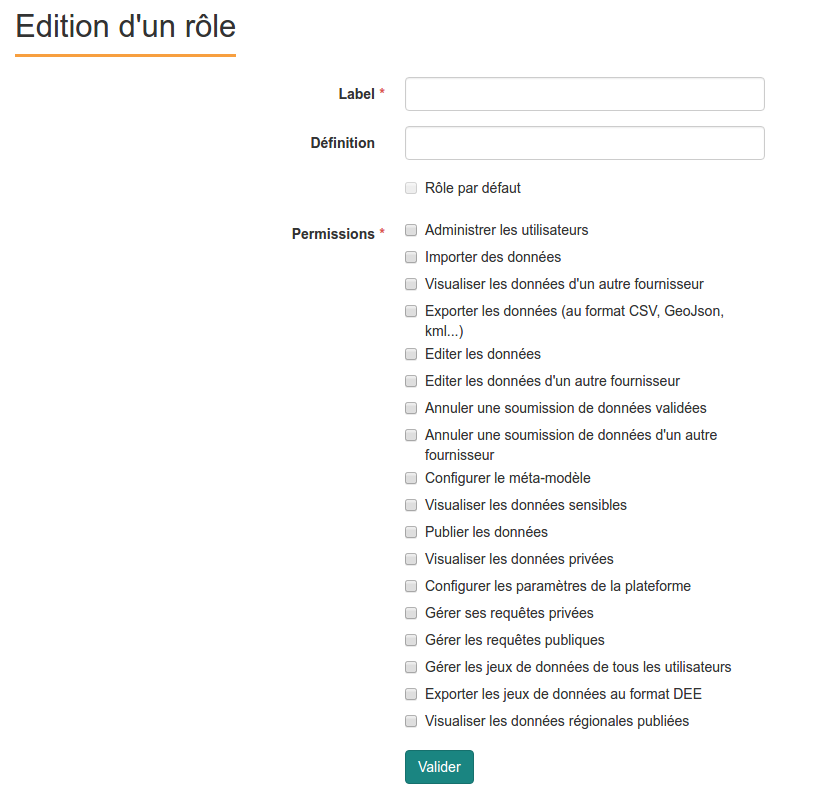
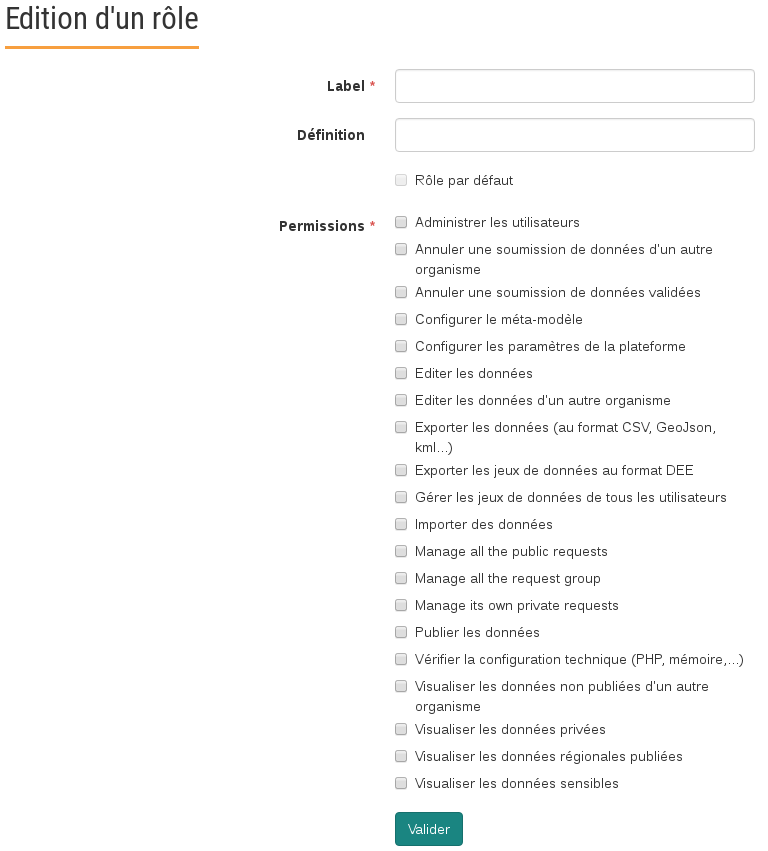
#1386: Update visu permissions documentation

diff --git a/website/server/src/Ign/Bundle/GincoBundle/Controller/QueryController.php b/website/server/src/Ign/Bundle/GincoBundle/Controller/QueryController.php
@@ -177,8 +177,7 @@ class QueryController extends BaseController {
 			// Call the service to get the definition of the columns
 			$userInfos = [
 				"providerId" => $this->getUser() ? $this->getUser()
-					->getProvider()
-					->getId() : NULL,
+					->getProvider() : NULL,
 				"hasGrandPublicRole" => in_array($grandPublicRole, $this->getUser()->getRoles()),
 				"DATA_QUERY" => $this->getUser() && $this->getUser()->isAllowed('DATA_QUERY'),
 				"DATA_QUERY_OTHER_PROVIDER" => $this->getUser() && $this->getUser()->isAllowed('DATA_QUERY_OTHER_PROVIDER'),
@@ -262,8 +261,7 @@ class QueryController extends BaseController {
 			// Call the service to get the definition of the columns
 			$userInfos = [
 				"providerId" => $this->getUser() ? $this->getUser()
-					->getProvider()
-					->getId() : NULL,
+					->getProvider() : NULL,
 				"hasGrandPublicRole" => in_array($grandPublicRole, $this->getUser()->getRoles()),
 				"DATA_QUERY" => $this->getUser() && $this->getUser()->isAllowed('DATA_QUERY'),
 				"DATA_QUERY_OTHER_PROVIDER" => $this->getUser() && $this->getUser()->isAllowed('DATA_QUERY_OTHER_PROVIDER'),
@@ -587,8 +585,7 @@ class QueryController extends BaseController {
 
 			$userInfos = [
 				"providerId" => $this->getUser() ? $this->getUser()
-					->getProvider()
-					->getId() : NULL,
+					->getProvider() : NULL,
 				"DATA_EDITION" => $this->getUser() && $this->getUser()->isAllowed('DATA_EDITION')
 			];
 

diff --git a/website/server/src/Ign/Bundle/GincoBundle/Services/GenericService.php b/website/server/src/Ign/Bundle/GincoBundle/Services/GenericService.php
@@ -249,13 +249,9 @@ class GenericService extends BaseGenericService {
 		// Right management
 		// Check the provider id of the logged user
 		// If the user role has not the permission to see unpublished data of other provider (ie has not DATA_QUERY_OTHER_PROVIDER), he can see his own datas or other providers published datas
+		// Users under Defaut organism are considered under different organisms
 		if (!$userInfos['DATA_QUERY_OTHER_PROVIDER'] && $hasColumnProvider && !$hasGrandPublicRole) {
-			$where .= " AND (" . $rootTable->getTableFormat()->getFormat() . ".provider_id = '" . $userInfos['providerId'] . "' OR submission.step='VALIDATE')";
-		}
-
-		// User with "publish data" permission can see submissions all the time, so we dont filter on validate submission
-		if (!$hasConfirmSubmission) {
-			$where .= " AND submission.step = 'VALIDATE' ";
+			$where .= " AND ((" . $rootTable->getTableFormat()->getFormat() . ".provider_id = '" . $userInfos['providerId']->getId() . "' AND '" . $userInfos['providerId']->getLabel() . "' != 'Defaut') OR submission.step='VALIDATE')";
 		}
 
 		// Return the completed SQL request

diff --git a/documentation/user/source/utilisateurs/administrer-les-roles.rst b/documentation/user/source/utilisateurs/administrer-les-roles.rst
@@ -39,28 +39,28 @@ Enfin, cliquez sur "Valider".
 
 Les rôles livrés avec les plateformes ont les permissions suivantes :
 
-========================================================  ==============  ==========  ============
-Permissions                                               administrateur  producteur  grand_public
-========================================================  ==============  ==========  ============
+==========================================================  ==============  ==========  ============
+Permissions                                                 administrateur  producteur  grand_public
+==========================================================  ==============  ==========  ============
 Administrer les utilisateurs                                 **Oui**          Non         Non
-Importer des données                                         **Oui**          Non         Non
-Visualiser les données régionales publiées                   **Oui**        **Oui**     **Oui**
-Visualiser les données d'un autre fournisseur                **Oui**          Non         Non
-Exporter les données (au format CSV, GeoJson, kml...)        **Oui**        **Oui**       Non
-Editer les données                                           **Oui**          Non         Non
-Editer les données d'un autre fournisseur                    **Oui**          Non         Non
+Annuler une soumission de données d'un autre organisme       **Oui**          Non         Non
 Annuler une soumission de données validées                   **Oui**          Non         Non
-Annuler une soumission de données d'un autre fournisseur     **Oui**          Non         Non
-Vérifier la configuration technique (PHP, mémoire,...)         Non            Non         Non
 Configurer le méta-modèle                                    **Oui**          Non         Non
-Visualiser les données sensibles                             **Oui**          Non         Non
-Visualiser les données privées                               **Oui**          Non         Non
+Editer les données                                           **Oui**          Non         Non
+Editer les données d'un autre organisme                      **Oui**          Non         Non
+Exporter les données (au format CSV, GeoJson, kml...)        **Oui**        **Oui**       Non
 Exporter les jeux de données au format DEE                   **Oui**          Non         Non
 Gérer les jeux de données de tous les utilisateurs           **Oui**          Non         Non
-Publier les données                                          **Oui**          Non         Non
 Gérer les requêtes publiques                                 **Oui**          Non         Non
 Gérer ses requêtes privées                                   **Oui**        **Oui**       Non
-========================================================  ==============  ==========  ============
+Importer des données                                         **Oui**          Non         Non
+Publier les données                                          **Oui**          Non         Non
+Vérifier la configuration technique (PHP, mémoire,...)         Non            Non         Non
+Visualiser les données non publiées d'un autre organisme     **Oui**          Non         Non
+Visualiser les données privées                               **Oui**          Non         Non
+Visualiser les données régionales publiées                   **Oui**        **Oui**     **Oui**
+Visualiser les données sensibles                             **Oui**          Non         Non
+==========================================================  ==============  ==========  ============
 
 Modifier un rôle
 ----------------

diff --git a/documentation/user/source/gestion-jdd/gerer-les-jeux-de-donnees.rst b/documentation/user/source/gestion-jdd/gerer-les-jeux-de-donnees.rst
@@ -109,10 +109,14 @@ Sous "Rapport" (**5**) on peut télécharger :
 Enfin, sous "Actions" il est possible de :
 
 * **Publier les données** pour les imports réussis. Cela rend les données de la soumission requêtables pour tous les utilisateurs (donc visibles sur la carte et dans le tableau de résultats), et permet de faire l'export GML.
-  Tant que la soumission n'est pas publiée, les données sont visibles uniquement aux utilisateurs ayant la permission "Publier les données", qui sont aussi les seuls à pouvoir réaliser l'action de publication.
+  Tant que la soumission n'est pas publiée, les données sont visibles uniquement aux utilisateurs du même organisme que celui ayant effectué l'import, ou aux utilisateurs ayant la permission "Visualiser les données non publiées d'un autre organisme".
+  Pour réaliser l'action de publication, il faut avoir la permission "Publier les données".
 
-* **Dépublier les données** rend les données de la soumission non consultables pour les utilisateurs n'ayant pas la permission "Publier les données".
+* **Dépublier les données** rend les données de la soumission non consultables pour les utilisateurs d'un organisme différent de celui ayant importé les données, ou ne possédant pas la permission "Visualiser les données non publiées d'un autre organisme".
+  Pour réaliser l'action de dépublication, il faut avoir la permission "Publier les données".
   De même, l'export GML n'est plus réalisable.
+  
+.. note:: Les utilisateurs qui ne sont pas rattachés à un véritable organisme (et donc rattachés à l'organisme d'attente noté Défaut), ne peuvent pas voir les données importées non publiées avec l'organisme Défaut.
   
 * **Supprimer le jeu de données** (**6**) supprime le jeu de données et les données associées, même si elles ont été publiées entre temps et ont fait l'objet d'un export vers la plateforme nationale.
 

diff --git a/documentation/user/source/recherche-visu/cartographie.rst b/documentation/user/source/recherche-visu/cartographie.rst
@@ -41,12 +41,12 @@ Affichage des résultats d'une recherche sur la carte
 
 Lorsqu'une recherche est effectuée, les couches Géométries précises, Communes, Mailles et Départements sont activées. Ce sont les bacs de visualisation des résultats de recherche.
 
-Les résultats de la recherche sont affichés sur la carte en fonction de leurs géométrie précise et de leurs rattachements géo-administratifs, 
+Les résultats de la recherche sont affichés selon l'entité géographique sélectionnée dans le groupe de couches "Résultats de la recherche",
 Les départements sont affichés en bleu, les mailles en vert, les communes en jaune, et les géométries précises en rouge.
 
 .. image:: ../images/visu/visu-carto-recherche.png
 
-Selon le niveau de zoom, du plus haut au plus bas, le résultat sera placé soit dans son ou ses département(s), puis dans sa ou ses maille(s), puis dans sa ou ses commune(s), et enfin sa géométrie précise sera affichée.
+Selon le niveau de zoom, certains niveau géographiques ne sont pas disponibles. Par exemple, il faut zoomer sufisamment pour pouvoir sélectionner la visualisation selon les communes ou la visualisation des géométries précises.
 
 Voici une idée de la visualisation des résultats de recherche à la maille :
 
@@ -56,7 +56,7 @@ Un zoom supplémentaire permet de visualiser la ou les communes du résultat :
 
 .. image:: ../images/visu/visu-carto-recherche-commune.png
 
-Enfin un zoom maximal affiche la géométrie précise de l'observation (ici, un polygone situé sur plusieurs communes) :
+Enfin un zoom maximal affiche la géométrie précise de l'observation :
 
 .. image:: ../images/visu/visu-carto-recherche-geometrie.png
 

diff --git a/documentation/user/source/recherche-visu/acces.rst b/documentation/user/source/recherche-visu/acces.rst
@@ -4,8 +4,7 @@ Accéder au module de visualisation et de recherche de données
 =============================================================
 
 Pour accéder au module de visualisation et de recherche, sur la page d’accueil de la plateforme GINCO, 
-cliquez sur “Se connecter” et entrez vos identifiants de connexion. 
-Si vous disposez du rôle d’administrateur, vous verrez la page d’accueil suivante :
+cliquez sur “Se connecter” et entrez vos identifiants de connexion.
  
  .. image:: ../images/visu/homepage-visu.png
 

diff --git a/documentation/user/source/recherche-visu/requeteur.rst b/documentation/user/source/recherche-visu/requeteur.rst
@@ -31,6 +31,7 @@ Les formulaires regroupent les champs de façon logique.
 |Formulaire     |    Champs                              |
 +===============+========================================+
 |Observation    | -  nomcite                             |
+|               | -  nomvalide                           |
 |               | -  typedenombrement                    |
 |               | -  objetdenombrement                   |
 |               | -  denombrementmax                     |

diff --git a/documentation/user/source/recherche-visu/tableau-resultats.rst b/documentation/user/source/recherche-visu/tableau-resultats.rst
@@ -41,4 +41,4 @@ En haut à droite du tableau, un menu déroulant permet d'exporter les résultat
  * KML : Format utilisant des balises, basé sur le XML pour les données géospatiales;
  * GeoJSON : Format utilisant la norme JSON, pour les données géospatiales.
  
- .. note:: Les géométries seront exportées en Web Mercator (EPSG 3857).
+ .. note:: Les géométries seront exportées dans la projection définies dans la configuration de la plateforme.
